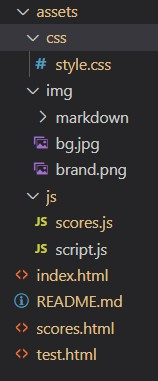
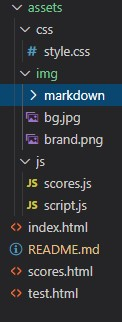
Edit readme

diff --git a/README.md b/README.md
@@ -37,10 +37,319 @@ This page has a table which is pupolated with the scores history in the browsers
 
 ## Styling and responsiveness
 
-The app uses Bootstrap 4 for styling to insure a sleek and responsive design. Minimal styling was included inline and in a separate style.css file. Some Bootstrap 4 components used include Jumbotron, cards and custom controls. Bootstrap 4 classes were used to show and hide components.
+The app uses Bootstrap 4 for styling to insure a sleek and responsive design. Minimal custom styling was added inline and in a separate style sheet. Some Bootstrap 4 components used include Navbar, Jumbotron, cards and custom controls. Bootstrap 4 classes were used to show and hide components. Below are screenshots of the app in desktop and mobile.
+
+<img src="assets/img/markdown/d1.png" style="height:300px"/>
+<img src="assets/img/markdown/m1.png" style="height:300px"/>
+<img src="assets/img/markdown/d2.png" style="height:300px"/>
+<img src="assets/img/markdown/m2.png" style="height:300px"/>
+<img src="assets/img/markdown/d3.png" style="height:300px"/>
+<img src="assets/img/markdown/m3.png" style="height:300px"/>
 
 ## Quiz app
 
-### Variable declarations and DOM elements selections
+### Variable declarations and DOM elements selections.
 
-###
+In this section the DOM elemenets are selected using the query selector. This includes DIV elements, buttons and inputs. Other variables are set as well like the current Card and the quiz time.
+
+```javascript
+// Variables declarations and DOM elements selector.
+
+var jumbotron = document.querySelector("#jumbotron");
+var card = document.querySelector("#card");
+var question = document.querySelector("#question");
+var optionLabel = document.querySelectorAll("label");
+var radio = document.querySelectorAll(".radio");
+var startBtn = document.querySelector("#startBtn");
+var previousBtn = document.querySelector("#previousBtn");
+var nextBtn = document.querySelector("#nextBtn");
+var submitBtn = document.querySelector("#submitBtn");
+var timerEl = document.querySelector("#timer");
+var minutesEl = document.querySelector("#minutes");
+var secondsEl = document.querySelector("#seconds");
+var resultEl = document.querySelector("#result");
+var initials = document.querySelector("#initials");
+var saveBtn = document.querySelector("#save");
+var alertEl = document.querySelector("#alert");
+var resultCardEl = document.querySelector("#resultCard");
+var time = 120;
+var currCard = 0;
+var scoresList = [];
+var scoreObj = {
+  initials: "",
+  score: ""
+};
+```
+
+### Questions list
+
+Here we declare a list of objects of questions and answers.
+
+```javascript
+// List of objects containing questions, possible answers list,
+// correct answer and selected answer by the user.
+
+var questionsList = [
+  {
+    question: "**_** is not a primative data type in JavaScript.",
+    answers: ["Number", "Array", "String", "Null"],
+    correctAnswer: "Array",
+    selectedAnswer: ""
+  },
+  {
+    question: "JavaScript code is enclosed in **_** tag in HTML document.",
+    answers: ["<code>", "<style>", "<script>", "<link>"],
+    correctAnswer: "<script>",
+    selectedAnswer: ""
+  },
+  {
+    question: "**_** is the symbol of logical AND operator in JavaScript.",
+    answers: ["+", "&&", "AND", "&"],
+    correctAnswer: "&&",
+    selectedAnswer: ""
+  },
+  {
+    question:
+      "**_** function is used to display a string or a variable to the console.",
+    answers: ["print()", "text.log()", "write()", "console.log()"],
+    correctAnswer: "console.log()",
+    selectedAnswer: ""
+  },
+  {
+    question: "In JavaScript, DOM stands for **_**.",
+    answers: [
+      "Day Of Month",
+      "Document Object Model",
+      "Data Object Model",
+      "Document Object Manipulation"
+    ],
+    correctAnswer: "Document Object Model",
+    selectedAnswer: ""
+  }
+];
+```
+
+## Event listeners
+
+Add event listeners to all the buttons in the app and set callback functions to east listener.
+
+```javascript
+// Event listener for the start quiz button that calls the startQuiz function.
+
+startBtn.addEventListener("click", startQuiz);
+
+// Event listener for the next button that displays the next question
+// with a callback function calling displayCard function.
+
+nextBtn.addEventListener("click", function(event) {
+  event.preventDefault();
+  for (let j = 0; j < radio.length; j++) {
+    if (radio[j].checked)
+      questionsList[currCard].selectedAnswer = radio[j].value;
+  }
+  currCard++;
+  displayCard(currCard);
+});
+
+// Event listener for the previous button that displays the previous question
+// with a callback function calling displayCard function.
+
+previousBtn.addEventListener("click", function(event) {
+  event.preventDefault();
+  for (let j = 0; j < radio.length; j++) {
+    if (radio[j].checked)
+      questionsList[currCard].selectedAnswer = radio[j].value;
+  }
+  currCard--;
+  displayCard(currCard);
+});
+
+// Event listener for the submit button that calls the endQuiz function.
+
+submitBtn.addEventListener("click", function(event) {
+  event.preventDefault();
+  for (let j = 0; j < radio.length; j++) {
+    if (radio[j].checked)
+      questionsList[currCard].selectedAnswer = radio[j].value;
+  }
+  score = endQuiz();
+});
+
+// Event listener to save score button with a callback function to check for
+// and saves the scores in a scores object then saves it to local storage.
+
+saveBtn.addEventListener("click", function(event) {
+  event.preventDefault();
+  if (initials.value.trim() === "") {
+    alertEl.classList.remove("d-none");
+  } else {
+    score = endQuiz();
+    scoreObj.initials = initials.value;
+    scoreObj.score = (score / 5) * 100;
+    scoresList = JSON.parse(localStorage.getItem("scores")) || [];
+    scoresList.push(scoreObj);
+    localStorage.setItem("scores", JSON.stringify(scoresList));
+    location.href = "./scores.html";
+  }
+});
+```
+
+### functions
+
+In this section of the quiz app we define functions that will be called by event listeners and perform different tasks and calculations. (see code comments for a description of each function).
+
+```javascript
+// Function to start the quiz. Display the first question and start the timer function.
+
+function startQuiz() {
+  jumbotron.classList.add("d-none");
+  card.classList.remove("d-none");
+  timer();
+  displayCard(currCard);
+}
+
+// The main timer function. The function calls the display time function every second and checks
+// if the time is up and calls the endQuiz function.
+
+function timer() {
+  setInterval(function() {
+    time--;
+    if (time > 0) {
+      displayRemainingTime();
+    } else {
+      endQuiz();
+    }
+  }, 1000);
+}
+
+// Function to format and display the remaining time.
+
+function displayRemainingTime() {
+  minutesEl.textContent =
+    Math.floor(time / 60) < 10
+      ? "0" + Math.floor(time / 60)
+      : Math.floor(time / 60);
+  secondsEl.textContent = time % 60 < 10 ? "0" + (time % 60) : time % 60;
+}
+
+// Function to  pick the question from the questions list and display the
+// question and the possible answer by manipulating the DOM.
+
+function displayCard(i) {
+  switch (i) {
+    case 0:
+      previousBtn.classList.add("d-none");
+      break;
+    case 4:
+      nextBtn.classList.add("d-none");
+      submitBtn.classList.remove("d-none");
+      break;
+    default:
+      nextBtn.classList.remove("d-none");
+      previousBtn.classList.remove("d-none");
+      submitBtn.classList.add("d-none");
+  }
+  question.textContent = i + 1 + " of 5: " + questionsList[i].question;
+  optionLabel.forEach(function(arr, j) {
+    arr.textContent = questionsList[i].answers[j];
+  });
+  radio.forEach(function(arr, j) {
+    arr.value = questionsList[i].answers[j];
+    if (radio[j].value == questionsList[i].selectedAnswer) {
+      radio[j].checked = true;
+    } else {
+      radio[j].checked = false;
+    }
+  });
+}
+
+// Function to check the answer for each question and compares it to the correct answer
+// then displays the score.
+
+function endQuiz() {
+  var score = 0;
+  for (let i = 0; i < questionsList.length; i++) {
+    if (questionsList[i].selectedAnswer === questionsList[i].correctAnswer)
+      score++;
+  }
+  card.classList.add("d-none");
+  timerEl.classList.add("d-none");
+  resultCardEl.classList.remove("d-none");
+  resultEl.textContent = score + " out of 5 - " + (score / 5) * 100 + "%";
+  return score;
+}
+```
+
+## Scores
+
+The scores app checks local storage for saved scores object then retrieves this object by using JSON parse then populates a table with the saved scores after sorting the array according to score. The scores app has a button that resets the scores.
+
+```javascript
+// Elements selection and variables declarations
+
+var table = document.querySelector("tbody");
+var resetBtn = document.querySelector("#reset");
+var row;
+var data;
+
+// Get scores object from local storage and sort in case of more than one record
+
+var scoresList = JSON.parse(localStorage.getItem("scores"));
+if (scoresList && scoresList.length > 1) {
+  scoresList.sort(compare);
+}
+
+// Render table function invocation
+
+renderTable();
+
+// Render table function by creating rows and data cells wiith values
+// from local storage and appending to table. If no stored scores, the function will create
+//  a an element and display message.
+
+function renderTable() {
+  table.innerHTML = "";
+  if (scoresList) {
+    for (let i = 0; i < scoresList.length; i++) {
+      row = document.createElement("tr");
+      table.appendChild(row);
+      data = document.createElement("td");
+      data.textContent = i + 1;
+      row.appendChild(data);
+      for (let key in scoresList[i]) {
+        data = document.createElement("td");
+        data.textContent = scoresList[i][key];
+        row.appendChild(data);
+      }
+    }
+  } else {
+    row = document.createElement("tr");
+    table.appendChild(row);
+    data = document.createElement("td");
+    data.textContent = "No scores saved";
+    row.appendChild(data);
+  }
+}
+
+// Adding event listener to reset button and clear local storage.
+
+resetBtn.addEventListener("click", function() {
+  localStorage.removeItem("scores");
+  renderTable();
+  location.reload();
+});
+
+// compare function to pass to sort function to sort the scores according to score.
+
+function compare(a, b) {
+  const A = a.score;
+  const B = b.score;
+  let comparison = 0;
+  if (A < B) {
+    comparison = 1;
+  } else if (A > B) {
+    comparison = -1;
+  }
+  return comparison;
+}
+```
